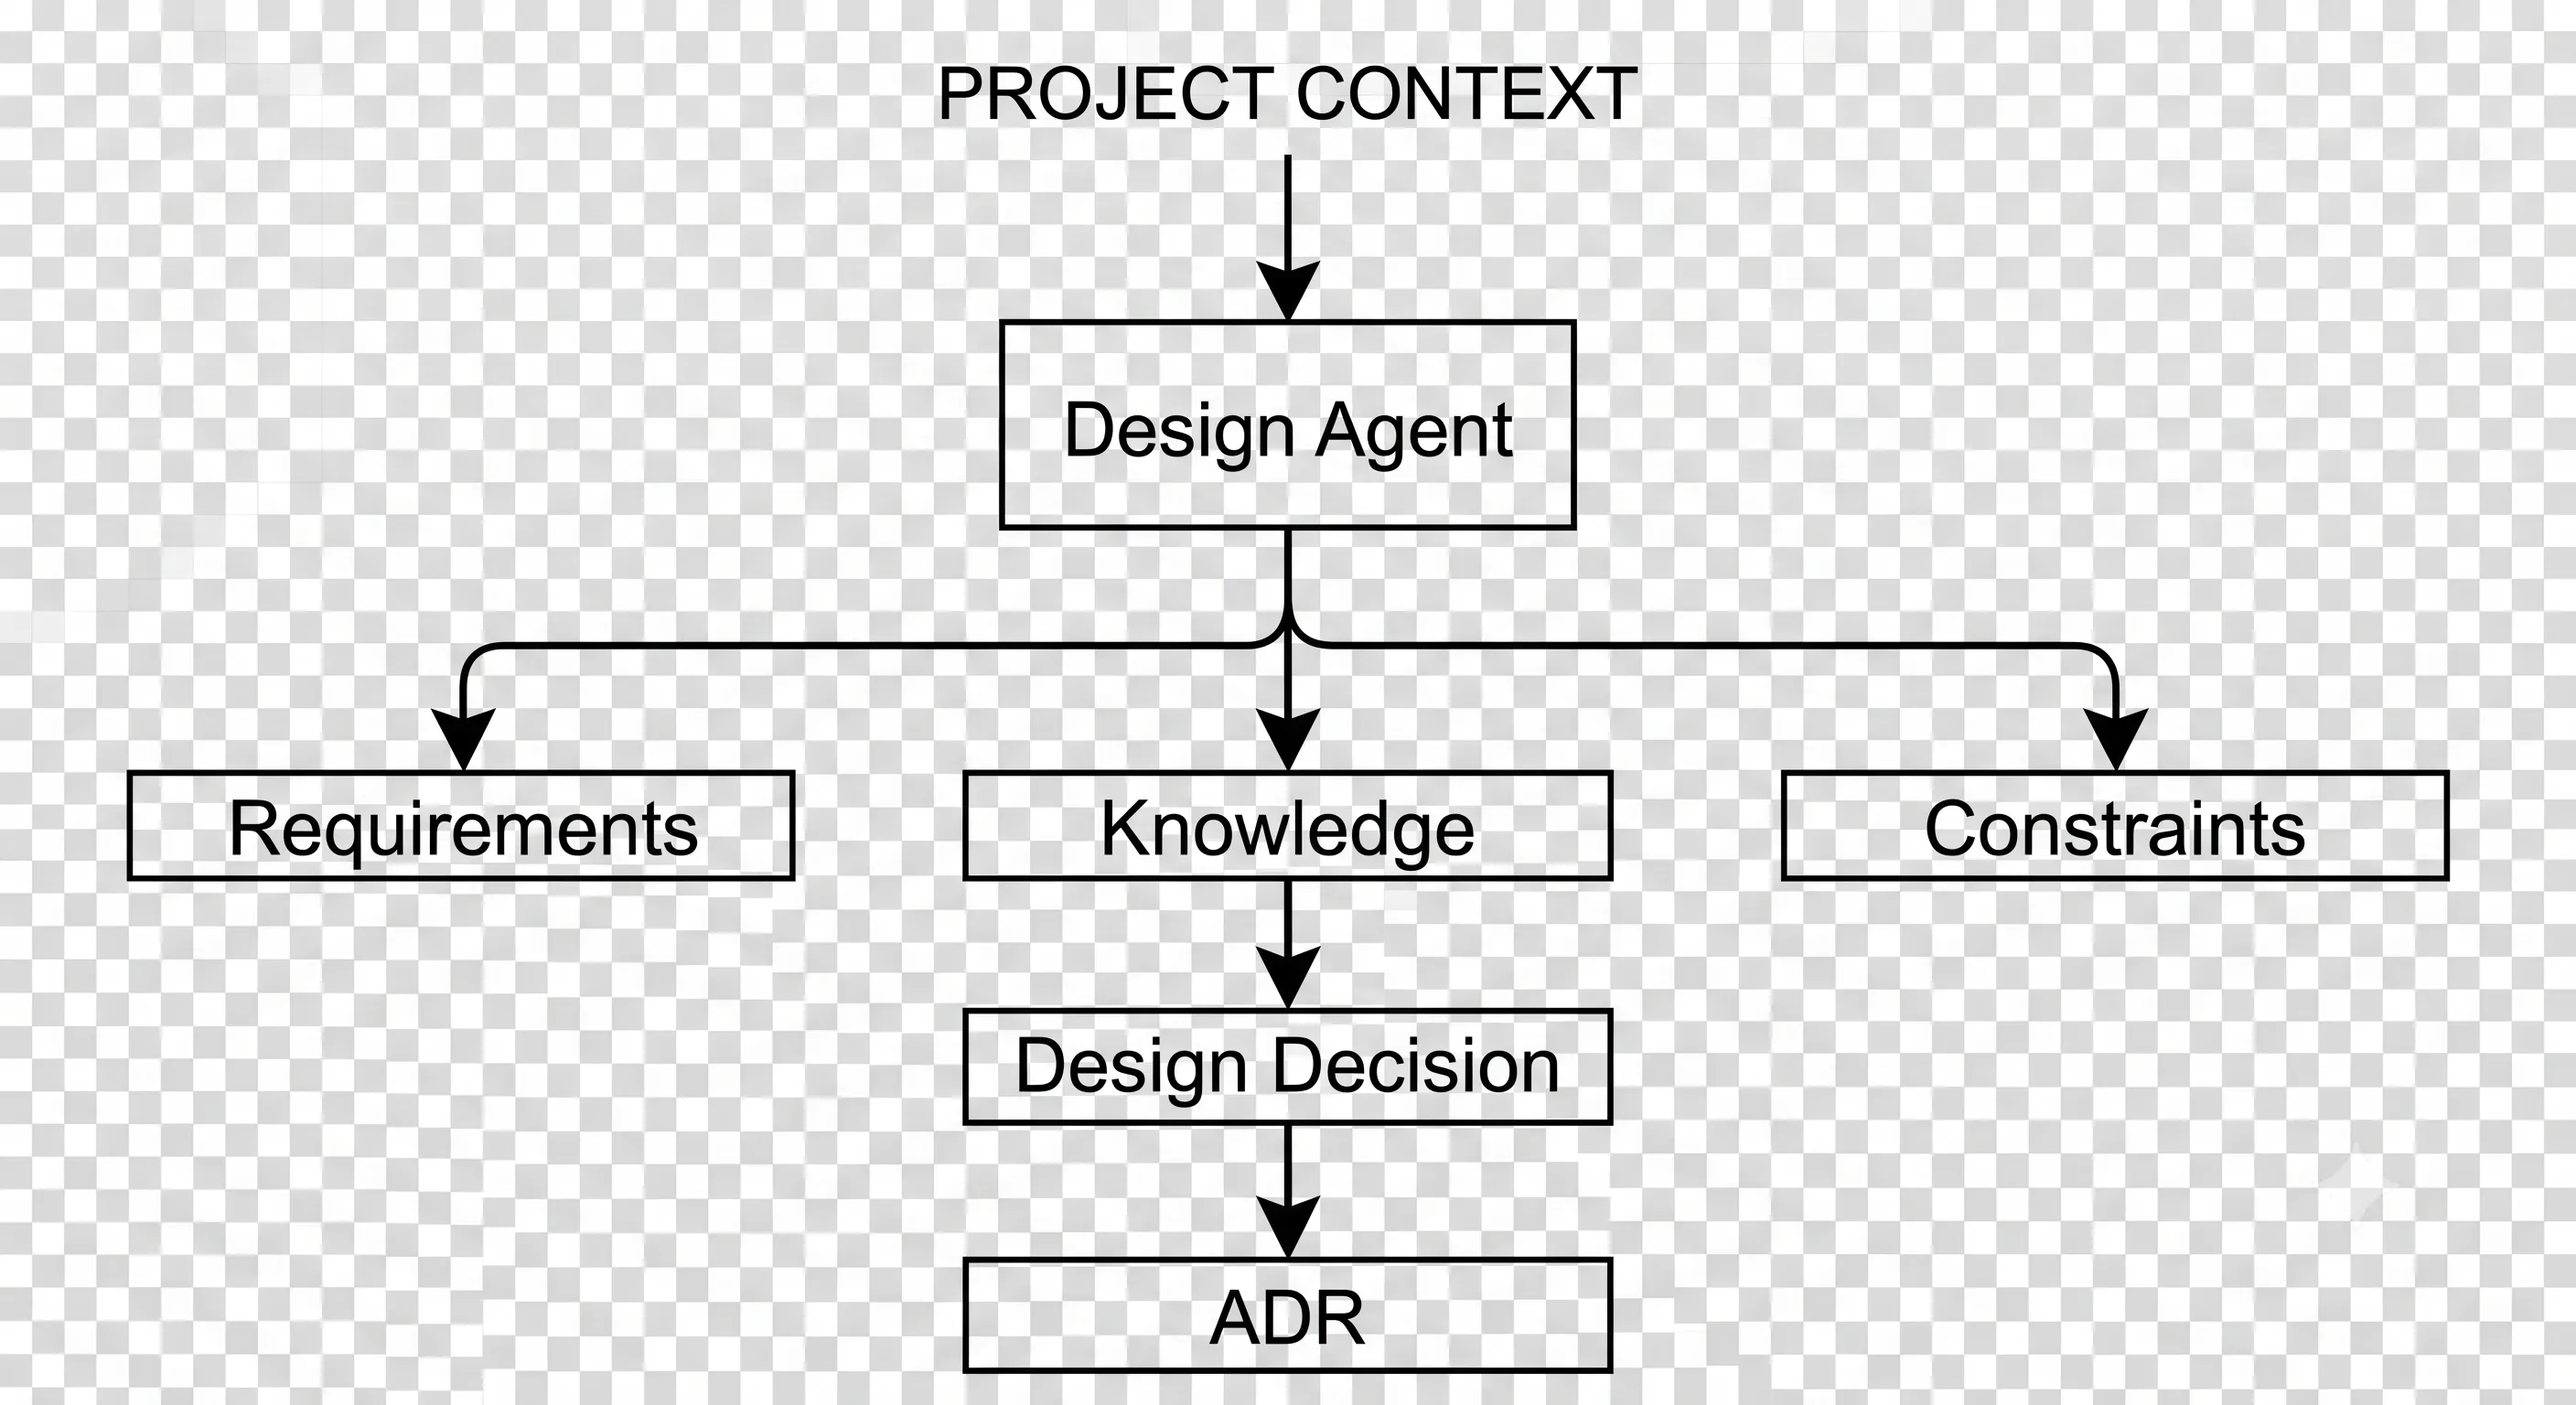
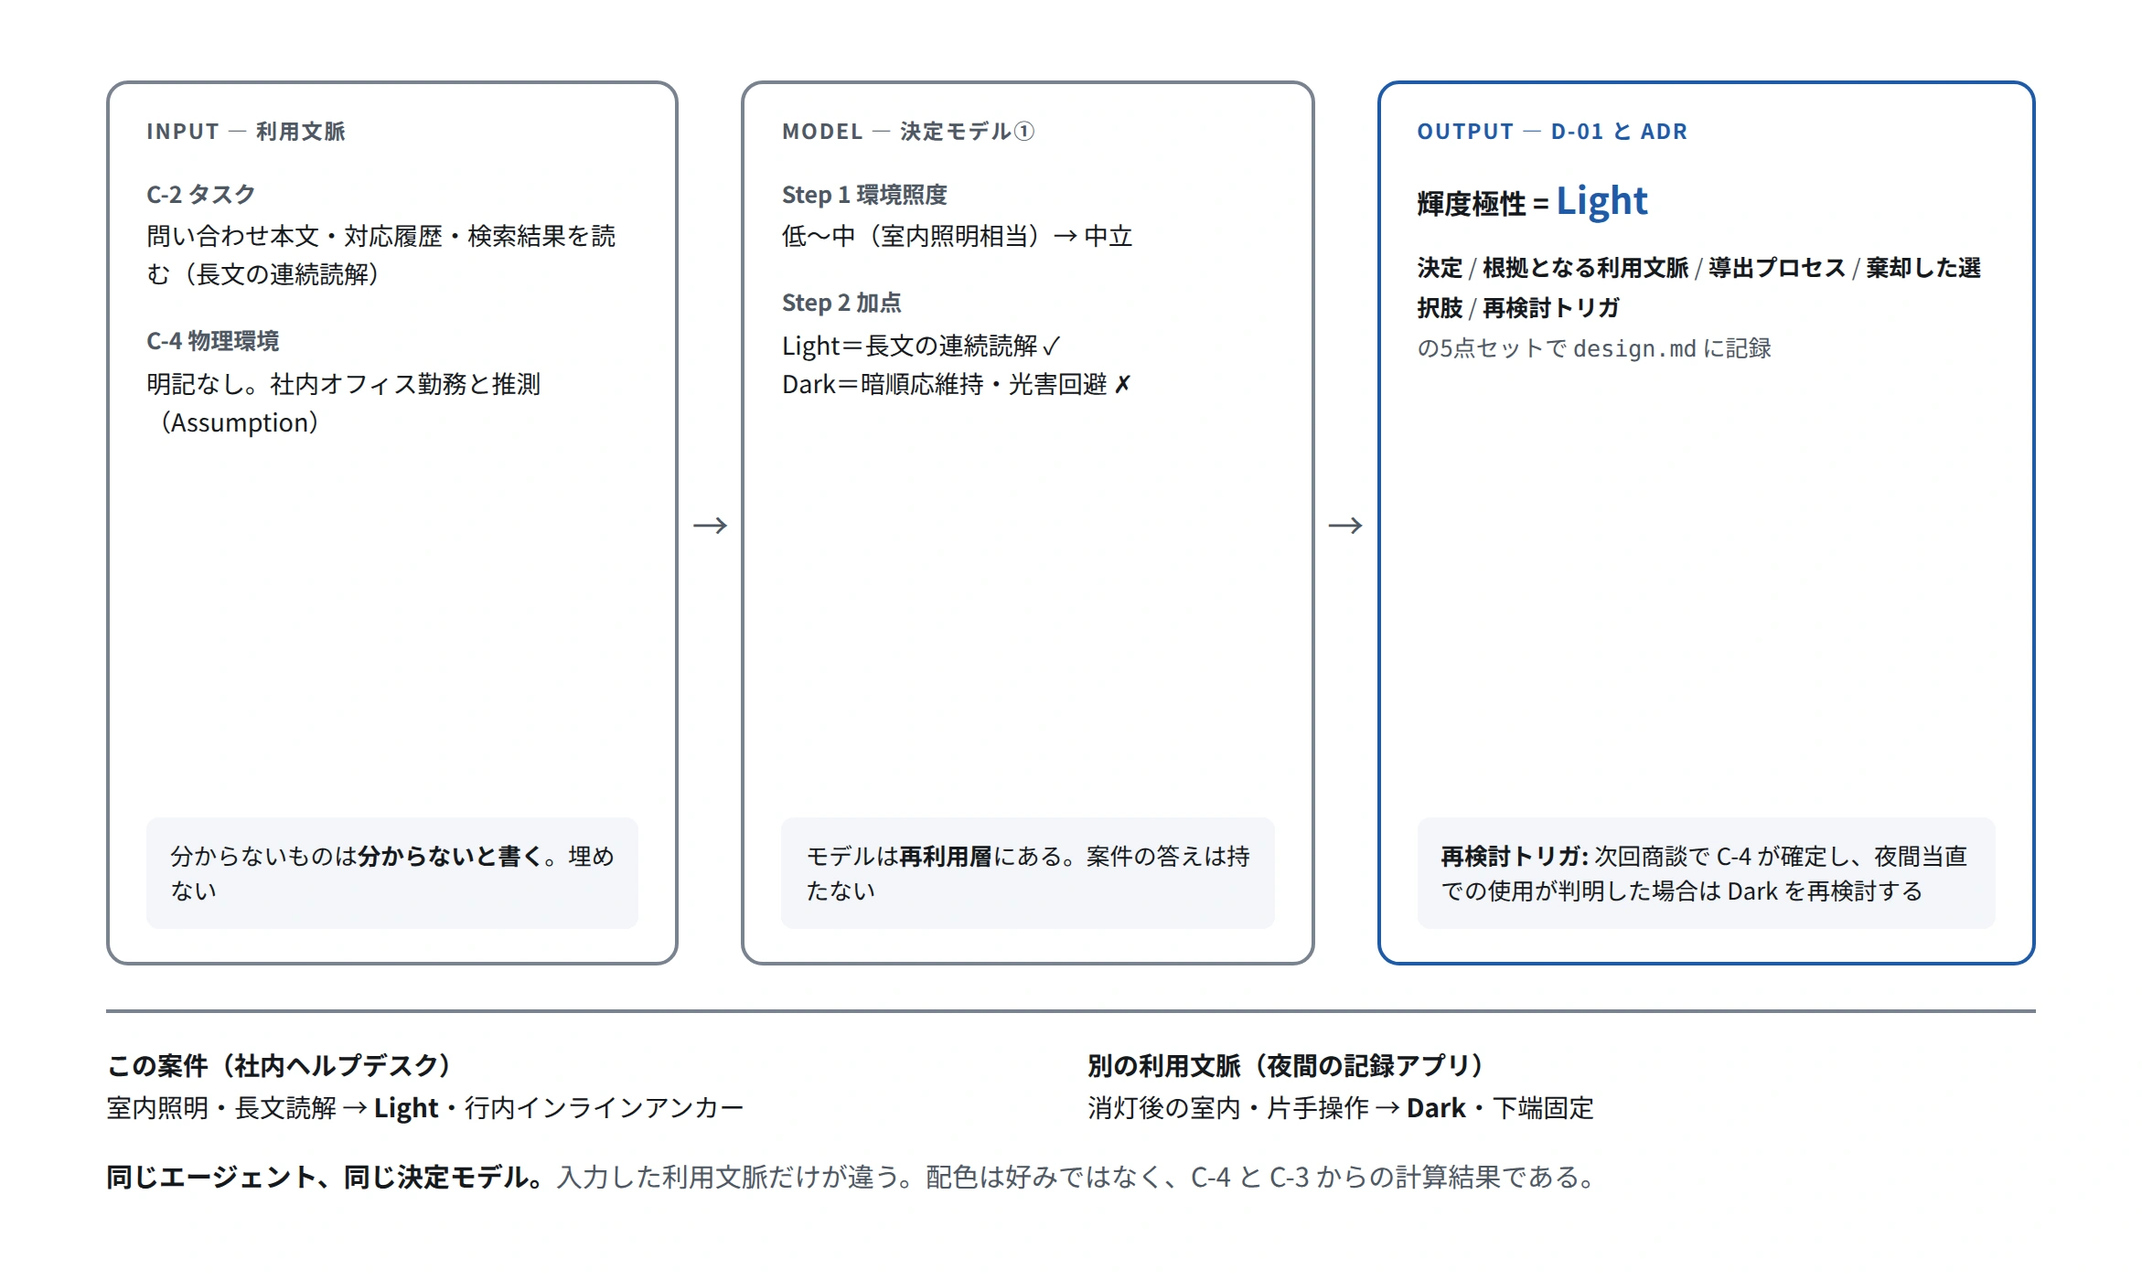
V1.74

diff --git a/data/works/spec-driven-prototyping.ts b/data/works/spec-driven-prototyping.ts
@@ -8,7 +8,6 @@ export const specDrivenPrototyping: Work = {
   description:
     "顧客との対話中に、判断の根拠を残しながら画面を作るAIワークフロー",
   thumbnail: "/images/works/spec-driven-prototyping/thumbnail.webp",
-  cardAward: "更新中",
   summary: {
     challenge:
       "顧客との対話をもとにその場でプロトタイプを作るには、スピードだけでなく、要件や設計判断の根拠を残しながら品質を担保する必要がある。",
@@ -74,15 +73,15 @@ export const specDrivenPrototyping: Work = {
       body: "FigJamで整理したヒアリング情報をFigma MCP経由でClaude Codeへ取り込み、ブリーフィングを作成します。\n\nその情報を専門AIエージェントへ引き継ぎ、要件定義書・仕様書・設計判断・Figma Make用プロンプトなどを生成。Figma Makeでプロトタイプへ変換します。\n\n前工程の成果物を次工程の根拠として引き継ぐことで、ヒアリングから画面生成までの情報を一貫してつなぐ構造にしています。",
     },
 
-    // {
-    //   type: "image",
-    //   src: "/images/works/spec-driven-prototyping/detail-01.webp",
-    //   alt: "AI開発ワークフローの全体構成",
-    //   caption:
-    //     "ヒアリングから仕様化・プロトタイプ制作・レビューまでをつなぐワークフロー",
-    //   width: 3200,
-    //   height: 1828,
-    // },
+    {
+      type: "image",
+      src: "/images/works/spec-driven-prototyping/detail-01.webp",
+      alt: "AI開発ワークフローの全体構成",
+      caption:
+        "ヒアリングから仕様化・プロトタイプ制作・レビューまでをつなぐワークフロー",
+      width: 3200,
+      height: 1828,
+    },
 
     {
       type: "text",
@@ -100,14 +99,14 @@ export const specDrivenPrototyping: Work = {
       body: "AIエージェントは、要件・設計・検証の3つの役割に分けました。\n\n役割を細かく分けすぎると受け渡しが増えるため、必要な責務を整理して3つに集約しています。\n\nまた、エージェントや知識を持つ「再利用層」と、案件ごとの要件定義書や仕様書を持つ「案件層」を分離し、別のプロジェクトでも再利用できる構造にしました。",
     },
 
-    // {
-    //   type: "image",
-    //   src: "/images/works/spec-driven-prototyping/detail-02.webp",
-    //   alt: "3つのAIエージェントと再利用層・案件層の構成",
-    //   caption: "エージェントや知識を再利用層に、案件ごとの成果物を案件層に分離",
-    //   width: 2816,
-    //   height: 1536,
-    // },
+    {
+      type: "image",
+      src: "/images/works/spec-driven-prototyping/detail-02.webp",
+      alt: "3つのAIエージェントと再利用層・案件層の構成",
+      caption: "エージェントや知識を再利用層に、案件ごとの成果物を案件層に分離",
+      width: 2816,
+      height: 1536,
+    },
 
     {
       type: "text",
@@ -117,14 +116,14 @@ export const specDrivenPrototyping: Work = {
       body: "AIエージェントには、特定の配色やレイアウトといった「正解」をあらかじめ持たせていません。\n\n代わりに、UIデザインやアクセシビリティなどのベストプラクティスを判断基準として参照し、案件の要件や利用文脈から設計を導く構造にしました。\n\n例えば、夜間利用ではダークUI、屋外利用ではライトUIというように、同じ判断基準から利用文脈に応じた設計を導き、その理由も記録します。",
     },
 
-    // {
-    //   type: "image",
-    //   src: "/images/works/spec-driven-prototyping/detail-03.webp",
-    //   alt: "プロジェクト情報と判断基準から設計判断を導くAIエージェントの構造",
-    //   caption: "要件・知識・制約をもとに設計を判断し、その根拠をADRとして残す",
-    //   width: 2816,
-    //   height: 1536,
-    // },
+    {
+      type: "image",
+      src: "/images/works/spec-driven-prototyping/detail-03.webp",
+      alt: "プロジェクト情報と判断基準から設計判断を導くAIエージェントの構造",
+      caption: "要件・知識・制約をもとに設計を判断し、その根拠をADRとして残す",
+      width: 2816,
+      height: 1536,
+    },
 
     {
       type: "text",
@@ -134,14 +133,14 @@ export const specDrivenPrototyping: Work = {
       body: "AIが生成した内容をそのまま採用せず、確認してから次の工程へ進む仕組みを設けました。\n\n数値で確認できるものは自動検証し、要件や設計の整合性など判断が必要なものは人間がレビューします。\n\n例えばアクセシビリティでは、画面のコントラスト比を自動で計算し、基準を満たしているか確認できるようにしています。実際にこの検証で、自分が定めたデザイン規約が可読性より優先される書き方になっていた箇所を発見し、規約自体を修正しました。\n\nまた、外部サービスへ渡すファイルに顧客の発言や機密情報が残っていないかも自動検査しています。渡さないと決めたヒアリング記録の内容が、別のファイルへ引用として転記されていた箇所を実際に検出しました。",
     },
 
-    // {
-    //   type: "image",
-    //   src: "/images/works/spec-driven-prototyping/detail-04.webp",
-    //   alt: "WCAGコントラスト比を自動検証するスクリプト",
-    //   caption: "数値で判定できる品質基準は、AIの自己申告ではなく自動検証",
-    //   width: 2342,
-    //   height: 1200,
-    // },
+    {
+      type: "image",
+      src: "/images/works/spec-driven-prototyping/detail-04.webp",
+      alt: "WCAGコントラスト比を自動検証するスクリプト",
+      caption: "数値で判定できる品質基準は、AIの自己申告ではなく自動検証",
+      width: 2342,
+      height: 1200,
+    },
 
     {
       type: "text",
@@ -151,14 +150,14 @@ export const specDrivenPrototyping: Work = {
       body: "設計したワークフローを実際に動かし、生成時間や成果物を検証しました。\n\n初回は21分50秒・866行を要しましたが、処理を分析すると、出力量を制限する指示がAIエージェントまで正しく伝わっていないことが判明しました。\n\n指示する場所と生成範囲を見直した結果、11分31秒・331行まで削減。同一の入力で2回計測し、所要時間を約47%、生成量を約62%、エージェント間の受け渡しを約60%削減しました。",
     },
 
-    // {
-    //   type: "image",
-    //   src: "/images/works/spec-driven-prototyping/detail-05.webp",
-    //   alt: "AI開発ワークフロー改善前後の比較",
-    //   caption: "ワークフロー改善前後：所要時間 約47%削減 / 生成量 約62%削減",
-    //   width: 2342,
-    //   height: 1400,
-    // },
+    {
+      type: "image",
+      src: "/images/works/spec-driven-prototyping/detail-05.webp",
+      alt: "AI開発ワークフロー改善前後の比較",
+      caption: "ワークフロー改善前後：所要時間 約47%削減 / 生成量 約62%削減",
+      width: 2342,
+      height: 1400,
+    },
 
     {
       type: "text",
